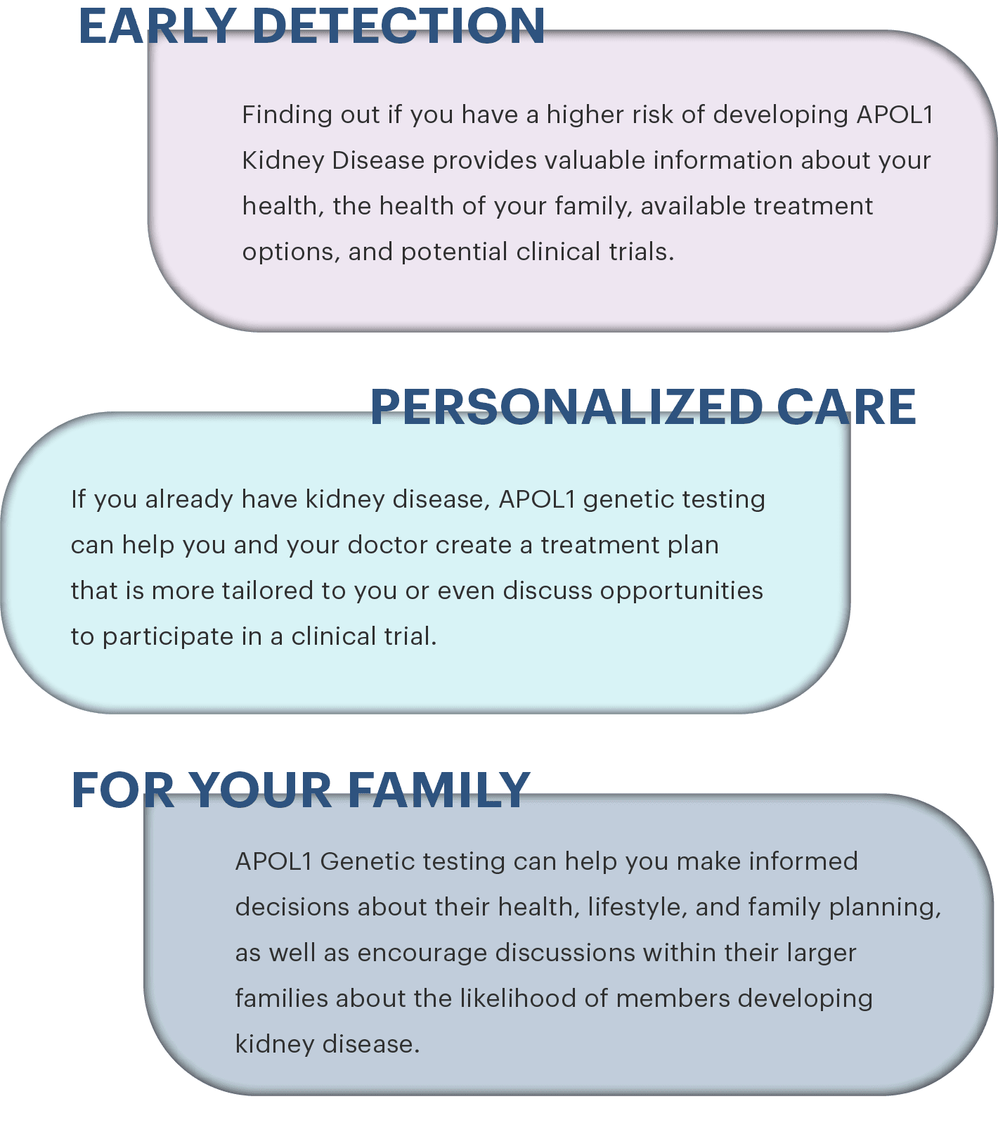
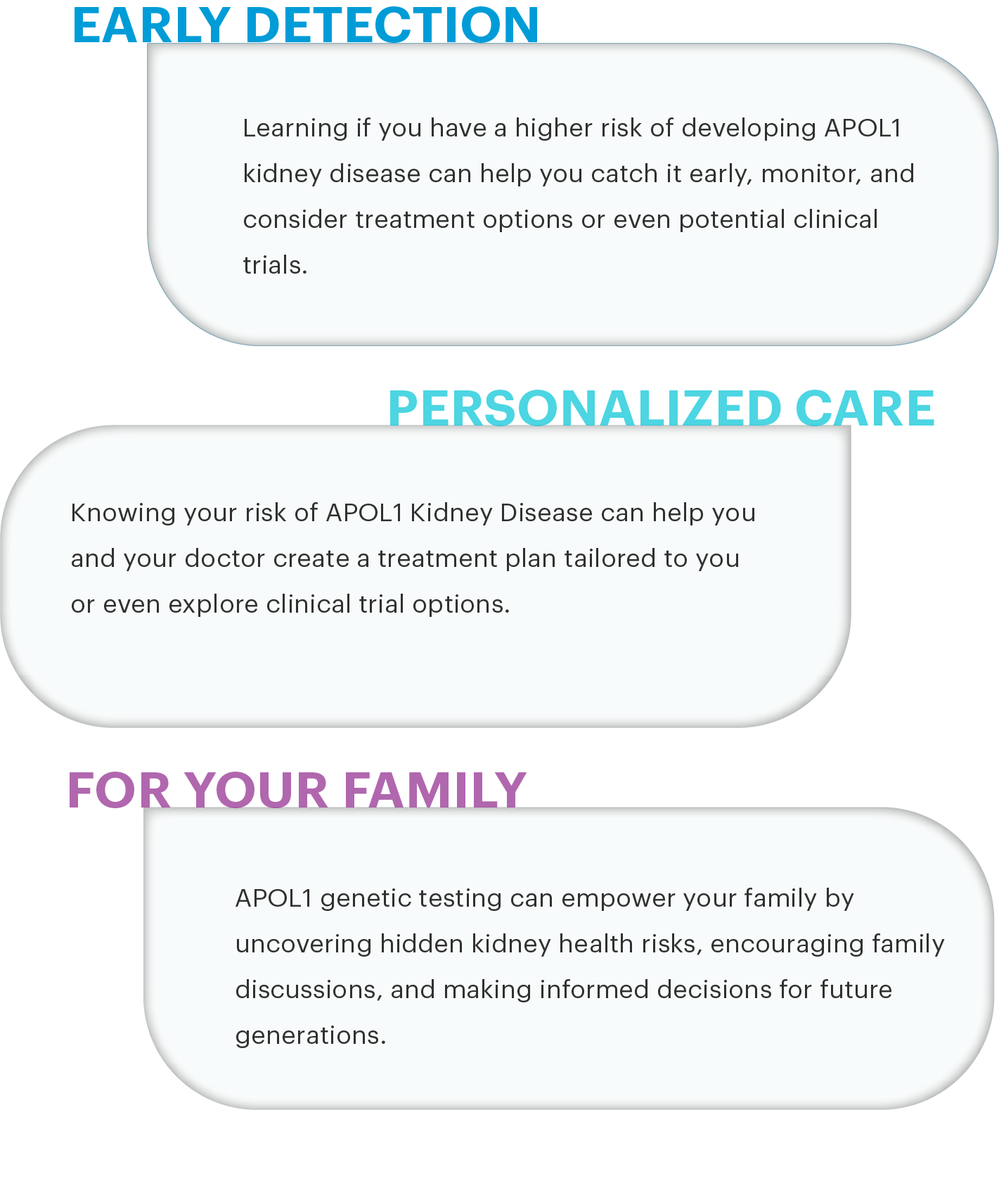
update changes

diff --git a/assets/css/index.min.css b/assets/css/index.min.css
@@ -1,1 +1,1 @@
-@font-face{font-family:"Graphik Trial";src:url("../fonts/Graphik-Semibold-Trial.otf") format("opentype");font-weight:500}@font-face{font-family:"Graphik Trial";src:url("../fonts/Graphik-Medium-Trial.otf") format("opentype");font-weight:600}@font-face{font-family:"Graphik Trial";src:url("../fonts/Graphik-Regular-Trial.otf") format("opentype");font-weight:400}html{scroll-behavior:smooth}body{overflow-x:hidden}*{margin:0;padding:0;-webkit-box-sizing:border-box;box-sizing:border-box;font-family:"Graphik Trial"}.hr{width:100%;height:1px;display:block;position:relative;margin-bottom:0em;padding:2em 0}.hr:after,.hr:before{content:"";position:absolute;width:100%;height:1px;bottom:50%;left:0}.hr:before{background:-webkit-gradient(linear, left top, right top, from(#10111F), color-stop(50%, #10111F), color-stop(50%, transparent), to(transparent));background:linear-gradient(90deg, #10111F 0%, #10111F 50%, transparent 50%, transparent 100%);background-size:15px;background-position:center;z-index:1}.hr:after{-webkit-transition:opacity .3s ease,-webkit-animation .3s ease;transition:opacity .3s ease,-webkit-animation .3s ease;transition:opacity .3s ease,animation .3s ease;transition:opacity .3s ease,animation .3s ease,-webkit-animation .3s ease;background:-webkit-gradient(linear, left top, right top, color-stop(5%, #62efab), color-stop(15%, #F2EA7D), color-stop(25%, #F2EA7D), color-stop(35%, #FF8797), color-stop(45%, #FF8797), color-stop(55%, #e1a4f4), color-stop(65%, #e1a4f4), color-stop(75%, #82fff4), color-stop(85%, #82fff4), color-stop(95%, #62efab));background:linear-gradient(to right, #62efab 5%, #F2EA7D 15%, #F2EA7D 25%, #FF8797 35%, #FF8797 45%, #e1a4f4 55%, #e1a4f4 65%, #82fff4 75%, #82fff4 85%, #62efab 95%);background-size:200%;background-position:0%;-webkit-animation:bar 15s linear infinite;animation:bar 15s linear infinite}@-webkit-keyframes bar{0%{background-position:0%}100%{background-position:200%}}@keyframes bar{0%{background-position:0%}100%{background-position:200%}}.container{max-width:1800px;margin:auto;padding:60px 100px}@media(max-width: 800px){.container{padding:40px}}@media(max-width: 480px){.container{padding:40px 20px}}.bg{background-repeat:no-repeat;background-size:cover;background-position:top}.bg_contain{background-repeat:no-repeat;background-position:top;background-size:contain}a.pink_link{margin-bottom:20px;display:inline-block;text-decoration:none;padding:4px 40px 9px 40px;border-radius:40px;color:#f3f5f5;font-weight:400;background:#f3f5f5;-webkit-box-shadow:rgba(0,0,0,.1) 0px 4px 6px -1px,rgba(0,0,0,.06) 0px 2px 4px -1px;box-shadow:rgba(0,0,0,.1) 0px 4px 6px -1px,rgba(0,0,0,.06) 0px 2px 4px -1px;position:relative;z-index:99;overflow:hidden}a.pink_link::before{content:"";width:100%;height:100%;background:linear-gradient(94deg, rgba(236, 78, 86, 0.6) 0%, rgba(171, 30, 112, 0.6) 100%);position:absolute;left:0;top:0;right:0;bottom:0;z-index:-1}p{font-weight:400;line-height:40px;font-size:24px}@media(max-width: 480px){p{font-size:18px}}.heading{font-size:30px;font-weight:600;color:#c40c72;text-transform:uppercase}@media(max-width: 800px){.heading{margin-bottom:40px}}span.bullet{display:inline-block;width:20px;height:20px;background:#c40c72;border-radius:50%;margin-right:5px}img{width:100%}.brand{color:#c40c72;font-weight:600}.sub_p{margin:60px}@media(max-width: 800px){.sub_p{margin:0}}.sub_padding{padding:60px}@media(max-width: 800px){.sub_padding{padding:0}}header{position:absolute;top:0;left:0;right:0}header .container{display:-webkit-box;display:-ms-flexbox;display:flex;-webkit-box-pack:end;-ms-flex-pack:end;justify-content:flex-end}header .container .right button{background:rgba(0,0,0,0);border:none;outline:none;cursor:pointer}header .container .right svg{width:30px;display:-webkit-box;display:-ms-flexbox;display:flex;-webkit-box-pack:justify;-ms-flex-pack:justify;justify-content:space-between}header #menu{background-color:#2e537f;position:fixed;right:-548px;top:0;bottom:0;height:100%;z-index:99999;padding:40px;-webkit-transition:all .4s linear;transition:all .4s linear}header #menu.show{right:0}header #menu .close{text-align:right;margin-bottom:40px}header #menu .close img{width:30px}header #menu .close a{display:inline-block}header #menu ul{list-style:none}header #menu ul a{text-decoration:none;color:#f3f5f5;padding:14px 0;display:block;text-transform:uppercase}#hero{background-image:url("../images/hero-bg-new.png");height:100vh;background-position:center}@media(max-width: 480px){#hero{height:calc(100vh - 100px)}}#hero .container{display:-webkit-box;display:-ms-flexbox;display:flex;height:100%;-webkit-box-align:end;-ms-flex-align:end;align-items:end;-webkit-box-pack:end;-ms-flex-pack:end;justify-content:end}#hero .text{position:absolute;right:20px;bottom:20px;text-align:center;background-color:rgba(255,255,255,.74);padding:30px;border-radius:30px}@media(max-width: 800px){#hero .text{left:20px;top:inherit;right:20px;bottom:20px;border-radius:0px}}#hero .text .middle{text-align:center}#hero .text .middle img{width:190px}@media(max-width: 800px){#hero .text{margin-right:0}}#hero h1{font-size:30px;letter-spacing:.38px;color:#255b7c;font-weight:600}@media(max-width: 480px){#hero h1{font-size:30px}}#hero .brand{color:#255b7c;font-weight:500}#slider_nav{margin-top:40px}#slider_nav .container{position:relative}#slider_nav a.pink_link{text-transform:uppercase}#slider_nav .bg{position:absolute;top:0;left:0;z-index:-1;width:40%;-o-object-fit:contain;object-fit:contain}#slider_nav .heading{font-size:30px;font-weight:400;margin-bottom:60px;color:#303030}#slider_nav .img{position:relative;border-radius:8px;overflow:hidden;display:-webkit-box;display:-ms-flexbox;display:flex}#slider_nav .img img{-o-object-fit:cover;object-fit:cover;width:100%;height:100%}#slider_nav .img .text{position:absolute;bottom:0;left:0;right:0;padding:0 30px;display:none}#slider_nav .img .text h2{font-weight:600;color:#fff;text-transform:uppercase;margin-bottom:15px}#slider_nav .swiper-slide{width:50rem}#slider_nav .swiper-slide p{margin:20px 20px 40px}#slider_nav .swiper-slide-prev .img{border:10px solid gray !important}#slider_nav .swiper-slide-next .img{border:10px solid gray !important}#slider_nav .swiper-slide-prev,#slider_nav .swiper-slide-next{-webkit-filter:grayscale(100%);filter:grayscale(100%)}#slider_nav p{display:none}#slider_nav .swiper-slide-active p{display:block;text-align:center}#slider_nav .swiper-slide-active .img{border:10px solid #c40c72}#slider_nav .swiper-slide-active .text{display:block}#slider_nav .swiper-button-next:after,#slider_nav .swiper-rtl .swiper-button-prev:after,#slider_nav .swiper-button-prev:after,#slider_nav .swiper-rtl .swiper-button-next:after{content:none}#slider_nav .swiper-button-next img,#slider_nav .swiper-button-prev img{width:65px;height:65px}@media(max-width: 480px){#slider_nav .swiper-button-next img,#slider_nav .swiper-button-prev img{width:40px;height:40px}}#slider_nav .swiper-pagination-bullet{width:15px;height:15px;background:#ec4e55;background:linear-gradient(100deg, rgb(236, 78, 85) 3%, rgb(171, 30, 113) 100%);z-index:9999}#slider_nav .swiper-pagination-bullet.swiper-pagination-bullet-active{width:20px;height:20px}#slider_nav .swiper-button-next,#slider_nav .swiper-button-prev{top:43%}#slider_nav .swiper-button-next{right:85px}@media(max-width: 800px){#slider_nav .swiper-button-next{right:20px}}@media(max-width: 480px){#slider_nav .swiper-button-next{right:10px}}#slider_nav .swiper-button-prev{left:85px}@media(max-width: 800px){#slider_nav .swiper-button-prev{left:20px}}@media(max-width: 480px){#slider_nav .swiper-button-prev{left:10px}}#apol1_origin .row{display:-webkit-box;display:-ms-flexbox;display:flex;gap:10px;-webkit-box-align:center;-ms-flex-align:center;align-items:center}@media(max-width: 800px){#apol1_origin .row{-webkit-box-orient:vertical;-webkit-box-direction:reverse;-ms-flex-direction:column-reverse;flex-direction:column-reverse}}#apol1_origin .left,#apol1_origin .right{-webkit-box-flex:1;-ms-flex:1;flex:1}#apol1_origin .right{text-align:right}#apol1_origin .right img{max-height:440px;-o-object-fit:contain;object-fit:contain;width:100%}@media(max-width: 800px){#apol1_origin .right img{max-height:240px;margin:20px 0}}#apol1_origin img{width:100%}#apol1_origin p{margin-bottom:30px}#apol1_origin .centered{margin-top:30px;max-width:900px;margin:30px auto}#apol_kidney img{margin:40px 0 60px}#apol_kidney .row{display:-webkit-box;display:-ms-flexbox;display:flex;gap:40px}@media(max-width: 800px){#apol_kidney .row{-webkit-box-orient:vertical;-webkit-box-direction:normal;-ms-flex-direction:column;flex-direction:column}}#recognizing_symptoms img{max-width:600px;margin:auto}#recognizing_symptoms .img{text-align:center}@media(max-width: 800px){#recognizing_symptoms .img{margin-top:20px}}#apol1_gene{background-position:center}#apol1_gene .container{padding-bottom:0}#apol1_gene .gene{padding:100px 100px 0}@media(max-width: 800px){#apol1_gene .gene{padding:40px 40px 0}}#apol1_gene .row.bg_contain{background-position:103px}@media(max-width: 800px){#apol1_gene .row.bg_contain{background-position:left}#apol1_gene .row.bg_contain .container{padding:0}}#apol1_gene .text{height:400px;display:-webkit-box;display:-ms-flexbox;display:flex;-webkit-box-pack:end;-ms-flex-pack:end;justify-content:end;-webkit-box-align:end;-ms-flex-align:end;align-items:end}@media(max-width: 800px){#apol1_gene .text{height:auto}}#apol1_gene .text p{max-width:800px;background-color:rgba(255,255,255,.74);padding:30px;border-radius:30px}@media(max-width: 800px){#apol1_gene .text p{background-color:rgba(255,255,255,.74);border-radius:0}}#mazes_commitment .container{position:relative}#mazes_commitment .text{padding:40px}@media(max-width: 800px){#mazes_commitment .text{padding:0}}#mazes_commitment .text p{margin:20px 0}#mazes_commitment .bg_obj{position:absolute;max-width:500px;top:0;right:40px;z-index:-1}@media(max-width: 800px){#mazes_commitment .bg_obj{max-width:300px;top:100px;right:0}}#mazes_commitment .form-container{padding:20px;border-radius:8px}#mazes_commitment .form-container form{display:-webkit-box;display:-ms-flexbox;display:flex;-webkit-box-orient:vertical;-webkit-box-direction:normal;-ms-flex-direction:column;flex-direction:column}#mazes_commitment .form-container .input-group{margin-bottom:20px}#mazes_commitment .form-container input,#mazes_commitment .form-container textarea{width:100%;padding:10px;border:1px solid #666;border-radius:4px;background-color:#fff;color:#000;font-size:18px}#mazes_commitment .form-container input::-webkit-input-placeholder, #mazes_commitment .form-container textarea::-webkit-input-placeholder{color:#5d5d5d}#mazes_commitment .form-container input::-moz-placeholder, #mazes_commitment .form-container textarea::-moz-placeholder{color:#5d5d5d}#mazes_commitment .form-container input:-ms-input-placeholder, #mazes_commitment .form-container textarea:-ms-input-placeholder{color:#5d5d5d}#mazes_commitment .form-container input::-ms-input-placeholder, #mazes_commitment .form-container textarea::-ms-input-placeholder{color:#5d5d5d}#mazes_commitment .form-container input::placeholder,#mazes_commitment .form-container textarea::placeholder{color:#5d5d5d}#mazes_commitment .form-container .input-row{display:-webkit-box;display:-ms-flexbox;display:flex;-webkit-box-pack:justify;-ms-flex-pack:justify;justify-content:space-between;gap:20px}#mazes_commitment .form-container .input-row .input-group{width:50%}#mazes_commitment .form-container .captcha{display:-webkit-box;display:-ms-flexbox;display:flex;-webkit-box-pack:justify;-ms-flex-pack:justify;justify-content:space-between;-webkit-box-align:center;-ms-flex-align:center;align-items:center;padding:10px;border:1px solid #666;border-radius:4px;background-color:#fff}#mazes_commitment .form-container .captcha input{border:none;outline:none;padding:0;margin:0}#mazes_commitment .form-container .captcha label{margin-right:10px;display:inline-block;min-width:70px}#mazes_commitment .form-container .submit-btn{background-color:#8bc34a;color:#fff;padding:10px;border:none;border-radius:4px;cursor:pointer;font-size:18px}#mazes_commitment .form-container .submit-btn:hover{background-color:#7cb342}#advisary_committee .text{margin-bottom:150px}#advisary_committee .committee{background-position:center;background-size:cover}#advisary_committee .users{display:-webkit-box;display:-ms-flexbox;display:flex;gap:40px;-ms-flex-wrap:wrap;flex-wrap:wrap;-webkit-box-pack:center;-ms-flex-pack:center;justify-content:center}#advisary_committee .users .user{-webkit-box-flex:1;-ms-flex:1;flex:1;max-width:295px;min-width:200px;-webkit-transition:all .6s linear;transition:all .6s linear}#advisary_committee .users .user:hover img{-webkit-transform:scaleY(1.01);transform:scaleY(1.01);-webkit-transform-origin:bottom;transform-origin:bottom}#advisary_committee .users h6{font-size:20px;font-weight:600;margin:10px 0}#advisary_committee .users .title{font-size:16px}#advisary_committee img{background-color:#f3f5f5;-webkit-transition:all .3s ease-in-out;transition:all .3s ease-in-out;max-height:350px;height:100%;-o-object-fit:cover;object-fit:cover}#advisary_committee .users{margin-top:-200px}#learn_more{background-position:center}#learn_more .highlight{background-color:rgba(255,192,203,.231372549);color:#000;display:inline-block;padding:0 10px}@media(max-width: 800px){#learn_more .highlight{margin-bottom:40px}}#learn_more h5{font-size:20px;color:#c40c72;margin-bottom:10px}#learn_more p{font-size:20px}#learn_more a{display:inline-block;color:#5cc1cb}#learn_more .tab{-webkit-box-shadow:rgba(99,99,99,.2) 0px 2px 8px 0px;box-shadow:rgba(99,99,99,.2) 0px 2px 8px 0px;padding:20px 50px;margin-bottom:40px;min-height:140px;-webkit-transition:all .3s ease-in-out;transition:all .3s ease-in-out;-webkit-transform-origin:top;transform-origin:top}@media(max-width: 480px){#learn_more .tab{padding:20px 30px}}#learn_more .full_content{overflow:hidden;-webkit-transition:height .3s linear;transition:height .3s linear}#learn_more .full_content ul{padding-left:20px}#learn_more .full_content ul li{margin-bottom:10px}#learn_more .full_content.h-0{height:0px;-webkit-transition:height .3s linear;transition:height .3s linear}#maze_affliations .brands{display:-webkit-box;display:-ms-flexbox;display:flex;-webkit-box-align:center;-ms-flex-align:center;align-items:center}footer{background-color:#2e537f}footer .container{padding:20px 100px}@media(max-width: 800px){footer .container{padding:20px}}footer .row{display:-webkit-box;display:-ms-flexbox;display:flex;gap:20px;-webkit-box-pack:justify;-ms-flex-pack:justify;justify-content:space-between;-webkit-box-align:center;-ms-flex-align:center;align-items:center}footer h4 a{color:#9ccac8;font-size:22px;text-decoration:none}footer ul{display:-webkit-box;display:-ms-flexbox;display:flex;gap:40px;list-style:none;-webkit-box-pack:right;-ms-flex-pack:right;justify-content:right}@media(max-width: 800px){footer ul{margin:20;-ms-flex-wrap:wrap;flex-wrap:wrap}}footer ul a{color:#f3f5f5}footer .top-link{display:inline-block;background:linear-gradient(100deg, rgb(236, 78, 85) 3%, rgb(171, 30, 113) 100%);width:50px;height:50px;text-align:center;border-radius:4px;position:fixed;bottom:30px;right:30px;-webkit-transition:background-color .3s,opacity .5s,visibility .5s;transition:background-color .3s,opacity .5s,visibility .5s;opacity:0;visibility:hidden;z-index:1000;padding:10px}@media(max-width: 480px){footer .top-link{width:35px;height:35px;padding:8px}}footer .top-link .screen-reader-text{display:none}footer .top-link svg{fill:#fff}footer .top-link.show{visibility:visible;opacity:1}footer .top-link.hide{visibility:hidden;opacity:0}
+@font-face{font-family:"Graphik Trial";src:url("../fonts/Graphik-Semibold-Trial.otf") format("opentype");font-weight:500}@font-face{font-family:"Graphik Trial";src:url("../fonts/Graphik-Medium-Trial.otf") format("opentype");font-weight:600}@font-face{font-family:"Graphik Trial";src:url("../fonts/Graphik-Regular-Trial.otf") format("opentype");font-weight:400}html{scroll-behavior:smooth}body{overflow-x:hidden}*{margin:0;padding:0;-webkit-box-sizing:border-box;box-sizing:border-box;font-family:"Graphik Trial"}.hr{width:100%;height:1px;display:block;position:relative;margin-bottom:0em;padding:2em 0}.hr:after,.hr:before{content:"";position:absolute;width:100%;height:1px;bottom:50%;left:0}.hr:before{background:-webkit-gradient(linear, left top, right top, from(#10111F), color-stop(50%, #10111F), color-stop(50%, transparent), to(transparent));background:linear-gradient(90deg, #10111F 0%, #10111F 50%, transparent 50%, transparent 100%);background-size:15px;background-position:center;z-index:1}.hr:after{-webkit-transition:opacity .3s ease,-webkit-animation .3s ease;transition:opacity .3s ease,-webkit-animation .3s ease;transition:opacity .3s ease,animation .3s ease;transition:opacity .3s ease,animation .3s ease,-webkit-animation .3s ease;background:-webkit-gradient(linear, left top, right top, color-stop(5%, #62efab), color-stop(15%, #F2EA7D), color-stop(25%, #F2EA7D), color-stop(35%, #FF8797), color-stop(45%, #FF8797), color-stop(55%, #e1a4f4), color-stop(65%, #e1a4f4), color-stop(75%, #82fff4), color-stop(85%, #82fff4), color-stop(95%, #62efab));background:linear-gradient(to right, #62efab 5%, #F2EA7D 15%, #F2EA7D 25%, #FF8797 35%, #FF8797 45%, #e1a4f4 55%, #e1a4f4 65%, #82fff4 75%, #82fff4 85%, #62efab 95%);background-size:200%;background-position:0%;-webkit-animation:bar 15s linear infinite;animation:bar 15s linear infinite}@-webkit-keyframes bar{0%{background-position:0%}100%{background-position:200%}}@keyframes bar{0%{background-position:0%}100%{background-position:200%}}.container{max-width:1800px;margin:auto;padding:60px 100px}@media(max-width: 800px){.container{padding:40px}}@media(max-width: 480px){.container{padding:40px 20px}}.bg{background-repeat:no-repeat;background-size:cover;background-position:top}.bg_contain{background-repeat:no-repeat;background-position:top;background-size:contain}a.pink_link{margin-bottom:20px;display:inline-block;text-decoration:none;padding:4px 40px 9px 40px;border-radius:40px;color:#f3f5f5;font-weight:400;background:#f3f5f5;-webkit-box-shadow:rgba(0,0,0,.1) 0px 4px 6px -1px,rgba(0,0,0,.06) 0px 2px 4px -1px;box-shadow:rgba(0,0,0,.1) 0px 4px 6px -1px,rgba(0,0,0,.06) 0px 2px 4px -1px;position:relative;z-index:99;overflow:hidden}a.pink_link::before{content:"";width:100%;height:100%;background:linear-gradient(94deg, rgba(236, 78, 86, 0.6) 0%, rgba(171, 30, 112, 0.6) 100%);position:absolute;left:0;top:0;right:0;bottom:0;z-index:-1}p{font-weight:400;line-height:40px;font-size:24px}@media(max-width: 480px){p{font-size:18px}}.heading{font-size:30px;font-weight:600;color:#c40c72;text-transform:uppercase}@media(max-width: 800px){.heading{margin-bottom:40px}}span.bullet{display:inline-block;width:20px;height:20px;background:#c40c72;border-radius:50%;margin-right:5px}img{width:100%}.brand{color:#c40c72;font-weight:600}.sub_p{margin:60px}@media(max-width: 800px){.sub_p{margin:0}}.sub_padding{padding:60px}@media(max-width: 800px){.sub_padding{padding:0}}header{position:absolute;top:0;left:0;right:0}header .container{display:-webkit-box;display:-ms-flexbox;display:flex;-webkit-box-pack:justify;-ms-flex-pack:justify;justify-content:space-between}header .container .middle img{width:190px}header .container .right button{background:rgba(0,0,0,0);border:none;outline:none;cursor:pointer}header .container .right svg{width:30px;display:-webkit-box;display:-ms-flexbox;display:flex;-webkit-box-pack:justify;-ms-flex-pack:justify;justify-content:space-between}header #menu{background-color:#2e537f;position:fixed;right:-548px;top:0;bottom:0;height:100%;z-index:99999;padding:40px;-webkit-transition:all .4s linear;transition:all .4s linear}header #menu.show{right:0}header #menu .close{text-align:right;margin-bottom:40px}header #menu .close img{width:30px}header #menu .close a{display:inline-block}header #menu ul{list-style:none}header #menu ul a{text-decoration:none;color:#f3f5f5;padding:14px 0;display:block;text-transform:uppercase}#hero{background-image:url("../images/hero-bg-new.png");height:100vh;background-position:center}@media(max-width: 480px){#hero{height:calc(100vh - 100px)}}#hero .container{display:-webkit-box;display:-ms-flexbox;display:flex;height:100%;-webkit-box-align:end;-ms-flex-align:end;align-items:end;-webkit-box-pack:end;-ms-flex-pack:end;justify-content:end}#hero .text{text-align:right;margin-right:20px}@media(max-width: 800px){#hero .text{margin-right:0}}#hero h1{font-size:50px;letter-spacing:.38px;color:#faf8f8;font-weight:600;margin-bottom:60px}@media(max-width: 480px){#hero h1{font-size:30px}}#hero .brand{color:#255b7c;font-weight:500}#slider_nav{margin-top:40px}#slider_nav .container{position:relative}#slider_nav a.pink_link{text-transform:uppercase}#slider_nav .bg{position:absolute;top:0;left:0;z-index:-1;width:40%;-o-object-fit:contain;object-fit:contain}#slider_nav .heading{font-size:30px;font-weight:400;margin-bottom:60px;color:#303030}#slider_nav .img{position:relative;border-radius:8px;overflow:hidden;display:-webkit-box;display:-ms-flexbox;display:flex}#slider_nav .img img{-o-object-fit:cover;object-fit:cover;width:100%;height:100%}#slider_nav .img .text{position:absolute;bottom:0;left:0;right:0;padding:0 30px;display:none}#slider_nav .img .text h2{font-weight:600;color:#fff;text-transform:uppercase;margin-bottom:15px}#slider_nav .swiper-slide{width:50rem}#slider_nav .swiper-slide p{margin:20px 20px 40px}#slider_nav .swiper-slide-prev .img{border:10px solid gray !important}#slider_nav .swiper-slide-next .img{border:10px solid gray !important}#slider_nav .swiper-slide-prev,#slider_nav .swiper-slide-next{-webkit-filter:grayscale(100%);filter:grayscale(100%)}#slider_nav p{display:none}#slider_nav .swiper-slide-active p{display:block;text-align:center}#slider_nav .swiper-slide-active .img{border:10px solid #c40c72}#slider_nav .swiper-slide-active .text{display:block}#slider_nav .swiper-button-next:after,#slider_nav .swiper-rtl .swiper-button-prev:after,#slider_nav .swiper-button-prev:after,#slider_nav .swiper-rtl .swiper-button-next:after{content:none}#slider_nav .swiper-button-next img,#slider_nav .swiper-button-prev img{width:65px;height:65px}@media(max-width: 480px){#slider_nav .swiper-button-next img,#slider_nav .swiper-button-prev img{width:40px;height:40px}}#slider_nav .swiper-pagination-bullet{width:15px;height:15px;background:#ec4e55;background:linear-gradient(100deg, rgb(236, 78, 85) 3%, rgb(171, 30, 113) 100%);z-index:9999}#slider_nav .swiper-pagination-bullet.swiper-pagination-bullet-active{width:20px;height:20px}#slider_nav .swiper-button-next,#slider_nav .swiper-button-prev{top:43%}#slider_nav .swiper-button-next{right:85px}@media(max-width: 800px){#slider_nav .swiper-button-next{right:20px}}@media(max-width: 480px){#slider_nav .swiper-button-next{right:10px}}#slider_nav .swiper-button-prev{left:85px}@media(max-width: 800px){#slider_nav .swiper-button-prev{left:20px}}@media(max-width: 480px){#slider_nav .swiper-button-prev{left:10px}}#apol1_origin .row{display:-webkit-box;display:-ms-flexbox;display:flex;gap:10px;-webkit-box-align:center;-ms-flex-align:center;align-items:center}@media(max-width: 800px){#apol1_origin .row{-webkit-box-orient:vertical;-webkit-box-direction:reverse;-ms-flex-direction:column-reverse;flex-direction:column-reverse}}#apol1_origin .left,#apol1_origin .right{-webkit-box-flex:1;-ms-flex:1;flex:1}#apol1_origin .right{text-align:right}#apol1_origin .right img{max-height:440px;-o-object-fit:contain;object-fit:contain;width:100%}@media(max-width: 800px){#apol1_origin .right img{max-height:240px;margin:20px 0}}#apol1_origin img{width:100%}#apol1_origin p{margin-bottom:30px}#apol1_origin .centered{margin-top:30px;max-width:900px;margin:30px auto}#apol_kidney img{margin:40px 0 60px}#apol_kidney .row{display:-webkit-box;display:-ms-flexbox;display:flex;gap:40px}@media(max-width: 800px){#apol_kidney .row{-webkit-box-orient:vertical;-webkit-box-direction:normal;-ms-flex-direction:column;flex-direction:column}}#recognizing_symptoms img{max-width:600px;margin:auto}#recognizing_symptoms .img{text-align:center}@media(max-width: 800px){#recognizing_symptoms .img{margin-top:20px}}#apol1_gene{background-position:center}#apol1_gene .container{padding-bottom:0}#apol1_gene .gene{padding:100px 100px 0}@media(max-width: 800px){#apol1_gene .gene{padding:40px 40px 0}}#apol1_gene .row.bg_contain{background-position:103px}@media(max-width: 800px){#apol1_gene .row.bg_contain{background-position:left}#apol1_gene .row.bg_contain .container{padding:0}}#apol1_gene .text{height:400px;display:-webkit-box;display:-ms-flexbox;display:flex;-webkit-box-pack:end;-ms-flex-pack:end;justify-content:end;-webkit-box-align:end;-ms-flex-align:end;align-items:end}@media(max-width: 800px){#apol1_gene .text{height:auto}}#apol1_gene .text p{max-width:800px;background-color:rgba(255,255,255,.74);padding:30px;border-radius:30px}@media(max-width: 800px){#apol1_gene .text p{background-color:rgba(255,255,255,.74);border-radius:0}}#mazes_commitment .container{position:relative}#mazes_commitment .text{padding:40px}@media(max-width: 800px){#mazes_commitment .text{padding:0}}#mazes_commitment .text p{margin:20px 0}#mazes_commitment .bg_obj{position:absolute;max-width:500px;top:0;right:40px;z-index:-1}@media(max-width: 800px){#mazes_commitment .bg_obj{max-width:300px;top:100px;right:0}}#mazes_commitment .form-container{padding:20px;border-radius:8px}#mazes_commitment .form-container form{display:-webkit-box;display:-ms-flexbox;display:flex;-webkit-box-orient:vertical;-webkit-box-direction:normal;-ms-flex-direction:column;flex-direction:column}#mazes_commitment .form-container .input-group{margin-bottom:20px}#mazes_commitment .form-container input,#mazes_commitment .form-container textarea{width:100%;padding:10px;border:1px solid #666;border-radius:4px;background-color:#fff;color:#000;font-size:18px}#mazes_commitment .form-container input::-webkit-input-placeholder, #mazes_commitment .form-container textarea::-webkit-input-placeholder{color:#5d5d5d}#mazes_commitment .form-container input::-moz-placeholder, #mazes_commitment .form-container textarea::-moz-placeholder{color:#5d5d5d}#mazes_commitment .form-container input:-ms-input-placeholder, #mazes_commitment .form-container textarea:-ms-input-placeholder{color:#5d5d5d}#mazes_commitment .form-container input::-ms-input-placeholder, #mazes_commitment .form-container textarea::-ms-input-placeholder{color:#5d5d5d}#mazes_commitment .form-container input::placeholder,#mazes_commitment .form-container textarea::placeholder{color:#5d5d5d}#mazes_commitment .form-container .input-row{display:-webkit-box;display:-ms-flexbox;display:flex;-webkit-box-pack:justify;-ms-flex-pack:justify;justify-content:space-between;gap:20px}#mazes_commitment .form-container .input-row .input-group{width:50%}#mazes_commitment .form-container .captcha{display:-webkit-box;display:-ms-flexbox;display:flex;-webkit-box-pack:justify;-ms-flex-pack:justify;justify-content:space-between;-webkit-box-align:center;-ms-flex-align:center;align-items:center;padding:10px;border:1px solid #666;border-radius:4px;background-color:#fff}#mazes_commitment .form-container .captcha input{border:none;outline:none;padding:0;margin:0}#mazes_commitment .form-container .captcha label{margin-right:10px;display:inline-block;min-width:70px}#mazes_commitment .form-container .submit-btn{background-color:#8bc34a;color:#fff;padding:10px;border:none;border-radius:4px;cursor:pointer;font-size:18px}#mazes_commitment .form-container .submit-btn:hover{background-color:#7cb342}#advisary_committee .text{margin-bottom:150px}#advisary_committee .committee{background-position:center;background-size:cover}#advisary_committee .users{display:-webkit-box;display:-ms-flexbox;display:flex;gap:40px;-ms-flex-wrap:wrap;flex-wrap:wrap;-webkit-box-pack:center;-ms-flex-pack:center;justify-content:center}#advisary_committee .users .user{-webkit-box-flex:1;-ms-flex:1;flex:1;max-width:295px;min-width:200px;-webkit-transition:all .6s linear;transition:all .6s linear}#advisary_committee .users .user:hover img{-webkit-transform:scaleY(1.01);transform:scaleY(1.01);-webkit-transform-origin:bottom;transform-origin:bottom}#advisary_committee .users h6{font-size:20px;font-weight:600;margin:10px 0}#advisary_committee .users .title{font-size:16px}#advisary_committee img{background-color:#f3f5f5;-webkit-transition:all .3s ease-in-out;transition:all .3s ease-in-out;max-height:350px;height:100%;-o-object-fit:cover;object-fit:cover;-o-object-position:top;object-position:top}#advisary_committee .users{margin-top:-200px}#learn_more{background-position:center}#learn_more .highlight{background-color:rgba(255,192,203,.231372549);color:#000;display:inline-block;padding:0 10px}@media(max-width: 800px){#learn_more .highlight{margin-bottom:40px}}#learn_more h5{font-size:20px;color:#c40c72;margin-bottom:10px}#learn_more p{font-size:20px}#learn_more a{display:inline-block;color:#5cc1cb}#learn_more .tab{-webkit-box-shadow:rgba(99,99,99,.2) 0px 2px 8px 0px;box-shadow:rgba(99,99,99,.2) 0px 2px 8px 0px;padding:20px 50px;margin-bottom:40px;min-height:140px;-webkit-transition:all .3s ease-in-out;transition:all .3s ease-in-out;-webkit-transform-origin:top;transform-origin:top}@media(max-width: 480px){#learn_more .tab{padding:20px 30px}}#learn_more .full_content{overflow:hidden;-webkit-transition:height .3s linear;transition:height .3s linear}#learn_more .full_content ul{padding-left:20px}#learn_more .full_content ul li{margin-bottom:10px}#learn_more .full_content.h-0{height:0px;-webkit-transition:height .3s linear;transition:height .3s linear}#maze_affliations .brands{display:-webkit-box;display:-ms-flexbox;display:flex;-webkit-box-align:center;-ms-flex-align:center;align-items:center}footer{background-color:#2e537f}footer .container{padding:20px 100px}@media(max-width: 800px){footer .container{padding:20px}}footer .row{display:-webkit-box;display:-ms-flexbox;display:flex;gap:20px;-webkit-box-pack:justify;-ms-flex-pack:justify;justify-content:space-between;-webkit-box-align:center;-ms-flex-align:center;align-items:center}footer h4 a{color:#9ccac8;font-size:22px;text-decoration:none}footer ul{display:-webkit-box;display:-ms-flexbox;display:flex;gap:40px;list-style:none;-webkit-box-pack:right;-ms-flex-pack:right;justify-content:right}@media(max-width: 800px){footer ul{margin:20;-ms-flex-wrap:wrap;flex-wrap:wrap}}footer ul a{color:#f3f5f5}footer .top-link{display:inline-block;background:linear-gradient(100deg, rgb(236, 78, 85) 3%, rgb(171, 30, 113) 100%);width:50px;height:50px;text-align:center;border-radius:4px;position:fixed;bottom:30px;right:30px;-webkit-transition:background-color .3s,opacity .5s,visibility .5s;transition:background-color .3s,opacity .5s,visibility .5s;opacity:0;visibility:hidden;z-index:1000;padding:10px}@media(max-width: 480px){footer .top-link{width:35px;height:35px;padding:8px}}footer .top-link .screen-reader-text{display:none}footer .top-link svg{fill:#fff}footer .top-link.show{visibility:visible;opacity:1}footer .top-link.hide{visibility:hidden;opacity:0}

diff --git a/index.html b/index.html
@@ -20,6 +20,10 @@
   <body>
     <header>
       <div class="container">
+        <div class="left"></div>
+        <div class="middle">
+          <a href="/"><img class="lozad" data-src="assets/images/header-logo.png" alt="Maze Logo"></a>
+        </div>
         <div class="right">
           <button class="btn_menu">
             <svg id="Layer_2" data-name="Layer 2" xmlns="http://www.w3.org/2000/svg" viewBox="0 0 62.72 53.93">
@@ -74,11 +78,8 @@
     <section class="section bg" id="hero" >
       <div class="container">
         <div class="text">
-          <div class="middle">
-            <a href="/"><img class="lozad" data-src="assets/images/header-logo.png" alt="Maze Logo"></a>
-          </div>
           <h1>
-           <span class="brand">Explore, Educate, </span>and <span class="brand">Empower</span><br> yourself to manage APOL1 Kidney Disease
+            <span class="brand">Explore, Educate,<br> </span>and <span class="brand">Empower</span><br> yourself to manage<br> APOL1 Kidney Disease
           </h1>
           <!-- <a class="pink_link" href="#">[text]</a> -->
         </div>
@@ -160,18 +161,17 @@
 
     <section id="apol1_origin" class="bg_contain" style="background-image: url('assets/images/origin-background.png');">
        <div class="container">
-        <h2 class="heading" style="margin-bottom: 60px;">APOL1 and Its Origin</h2>
+        <h2 class="heading" style="margin-bottom: 60px;">APOL1 Kidney Disease and It’s Origin</h2>
+        <p class="sub_p">APOL1 Kidney Disease, also known as APOL1-mediated kidney disease (AMKD), refers to chronic kidney disease in patients with APOL1 gene variants.</p>
         <div class="row">
           <div class="left">
-            <p></p>
             <p>
               <span class="bullet"></span>
-              Everyone has a gene called APOL1 or apolipoprotein L1. We each have two copies of the APOL1 gene, one inherited from each of our parents. 
+              Everyone has a gene called APOL1 or apolipoprotein L1. We each have two copies of the APOL1 gene, one inherited from each of our parents. Some people have changes in the APOL1 gene, called variants or mutations that raise their risk of chronic kidney disease.
             </p>
             <p>
               <span class="bullet"></span>
-              Some people have changes in the APOL1 gene, known as variants or mutations, which increase their risk of developing chronic kidney disease.
-              People of African ancestry, including those who identify as Black, African American, Caribbean, and/or Latino, who carry these APOL1 gene variants may experience faster loss of kidney function.
+              	People of African ancestry, including those who identify as Black, African American, Caribbean, and/or Latino, who carry these APOL1 gene variants may experience faster loss of kidney function.
             </p>
           </div>
           <div class="right">
@@ -181,18 +181,16 @@
         </div>
         <p class="centered" style="margin-bottom: 0;">
           <span class="bullet"></span>
-          The APOL1 gene variants originally evolved in people who lived in
-          Western and Central Africa, to protect them from a deadly disease known as
-          African sleeping sickness. However, these same gene variants are now known to increase a person's risk of developing kidney disease.
+          	The APOL1 gene variants evolved in Western and Central Africa to protect individuals from a deadly disease known as African sleeping sickness. Over time, these same gene variants are now known to increase a person's risk of developing APOL1 Kidney Disease.
         </p>
        </div>
     </section>
 
     <section id="apol_kidney" class="bg_contain" style="background-image: url('assets/images/apol-kidney-bg@2x-8.png');">
       <div class="container">
-        <h2 class="heading">APOL1 Kidney Disease</h2>
+        <h2 class="heading">Understanding APOL1 Kidney Disease</h2>
         <p class="sub_p">
-          APOL1 Kidney Disease, also known as APOL1-mediated kidney disease (AMKD), refers to chronic kidney disease in patients with APOL1 gene variants and is linked to <span class="brand">several types of kidney disorders.</span> 
+          APOL1 Kidney Disease is linked to several types of kidney disorders.
         </p>
         <img style="margin-bottom: 0;" class="lozad" data-src="assets/images/kidney-disease.png" alt="diseases list">
       </div>
@@ -211,10 +209,10 @@
 
     <section id="apol1_gene" class="bg_contain" style="background-image: url('assets/images/family-bg@2x-8.png')">
       <div class="container">
-        <h2 class="heading">You, Your Family, and the APOL1 Gene</h2>
+        <h2 class="heading">You, Your Family, and APOL1 Kidney Disease</h2>
         <img class="gene lozad" data-src="assets/images/gene@2x-8.png" alt="gene">
       </div>
-        <div class="row bg_contain" style="background-image: url('assets/images/early-detection.png');">
+        <div class="row bg_contain" style="background-image: url('assets/images/early-detection.jpg');">
           <div class="container">
             <div class="text" style="padding-bottom: 20px;">
               <p>APOL1 genetic testing provides valuable information about your health, your family's health, available treatment options, and potential eligibility for clinical trials.</p>

diff --git a/assets/css/index.scss b/assets/css/index.scss
@@ -210,7 +210,14 @@ header{
     right: 0;
     .container{
         display: flex;
-        justify-content: flex-end;
+        justify-content: space-between;
+
+        .middle{
+            img{
+                width: 190px;
+            }
+        }
+
 
         .right{
 
@@ -282,28 +289,8 @@ header{
     }
 
     .text{
-        position: absolute;
-        right: 20px;
-        bottom: 20px;
-        text-align: center;
-        background-color: rgb(255 255 255 / 74%);
-        padding: 30px;
-        border-radius: 30px;
-
-        @media(max-width: $tablet){
-            left: 20px;
-            top: inherit;
-            right: 20px;
-            bottom: 20px;
-            border-radius: 0px;
-        }
-
-        .middle{
-            text-align: center;
-            img{
-                width: 190px;
-            }
-        }
+        text-align: right;
+        margin-right: 20px;
 
         @media(max-width: $tablet){
             margin-right: 0;
@@ -312,15 +299,17 @@ header{
     }
 
     h1{
-        font-size : 30px;
+        font-size : 50px;
         letter-spacing : 0.38px;
-        color : #255B7C;
+        color : #FAF8F8;
         font-weight: 600;
+        margin-bottom: 60px;
 
         @media(max-width: $mobile){
             font-size : 30px;
         }
     }
+
 
     .brand{
         color: #255B7C;
@@ -743,6 +732,7 @@ header{
         max-height: 350px;
         height: 100%;
         object-fit: cover;
+        object-position: top;
 
     }
 

diff --git a/assets/css/index.css b/assets/css/index.css
@@ -206,9 +206,12 @@ header .container {
   display: -webkit-box;
   display: -ms-flexbox;
   display: flex;
-  -webkit-box-pack: end;
-      -ms-flex-pack: end;
-          justify-content: flex-end;
+  -webkit-box-pack: justify;
+      -ms-flex-pack: justify;
+          justify-content: space-between;
+}
+header .container .middle img {
+  width: 190px;
 }
 header .container .right button {
   background: transparent;
@@ -284,28 +287,8 @@ header #menu ul a {
           justify-content: end;
 }
 #hero .text {
-  position: absolute;
-  right: 20px;
-  bottom: 20px;
-  text-align: center;
-  background-color: rgba(255, 255, 255, 0.74);
-  padding: 30px;
-  border-radius: 30px;
-}
-@media (max-width: 800px) {
-  #hero .text {
-    left: 20px;
-    top: inherit;
-    right: 20px;
-    bottom: 20px;
-    border-radius: 0px;
-  }
-}
-#hero .text .middle {
-  text-align: center;
-}
-#hero .text .middle img {
-  width: 190px;
+  text-align: right;
+  margin-right: 20px;
 }
 @media (max-width: 800px) {
   #hero .text {
@@ -313,10 +296,11 @@ header #menu ul a {
   }
 }
 #hero h1 {
-  font-size: 30px;
+  font-size: 50px;
   letter-spacing: 0.38px;
-  color: #255B7C;
+  color: #FAF8F8;
   font-weight: 600;
+  margin-bottom: 60px;
 }
 @media (max-width: 480px) {
   #hero h1 {
@@ -767,6 +751,8 @@ header #menu ul a {
   height: 100%;
   -o-object-fit: cover;
      object-fit: cover;
+  -o-object-position: top;
+     object-position: top;
 }
 #advisary_committee .users {
   margin-top: -200px;
